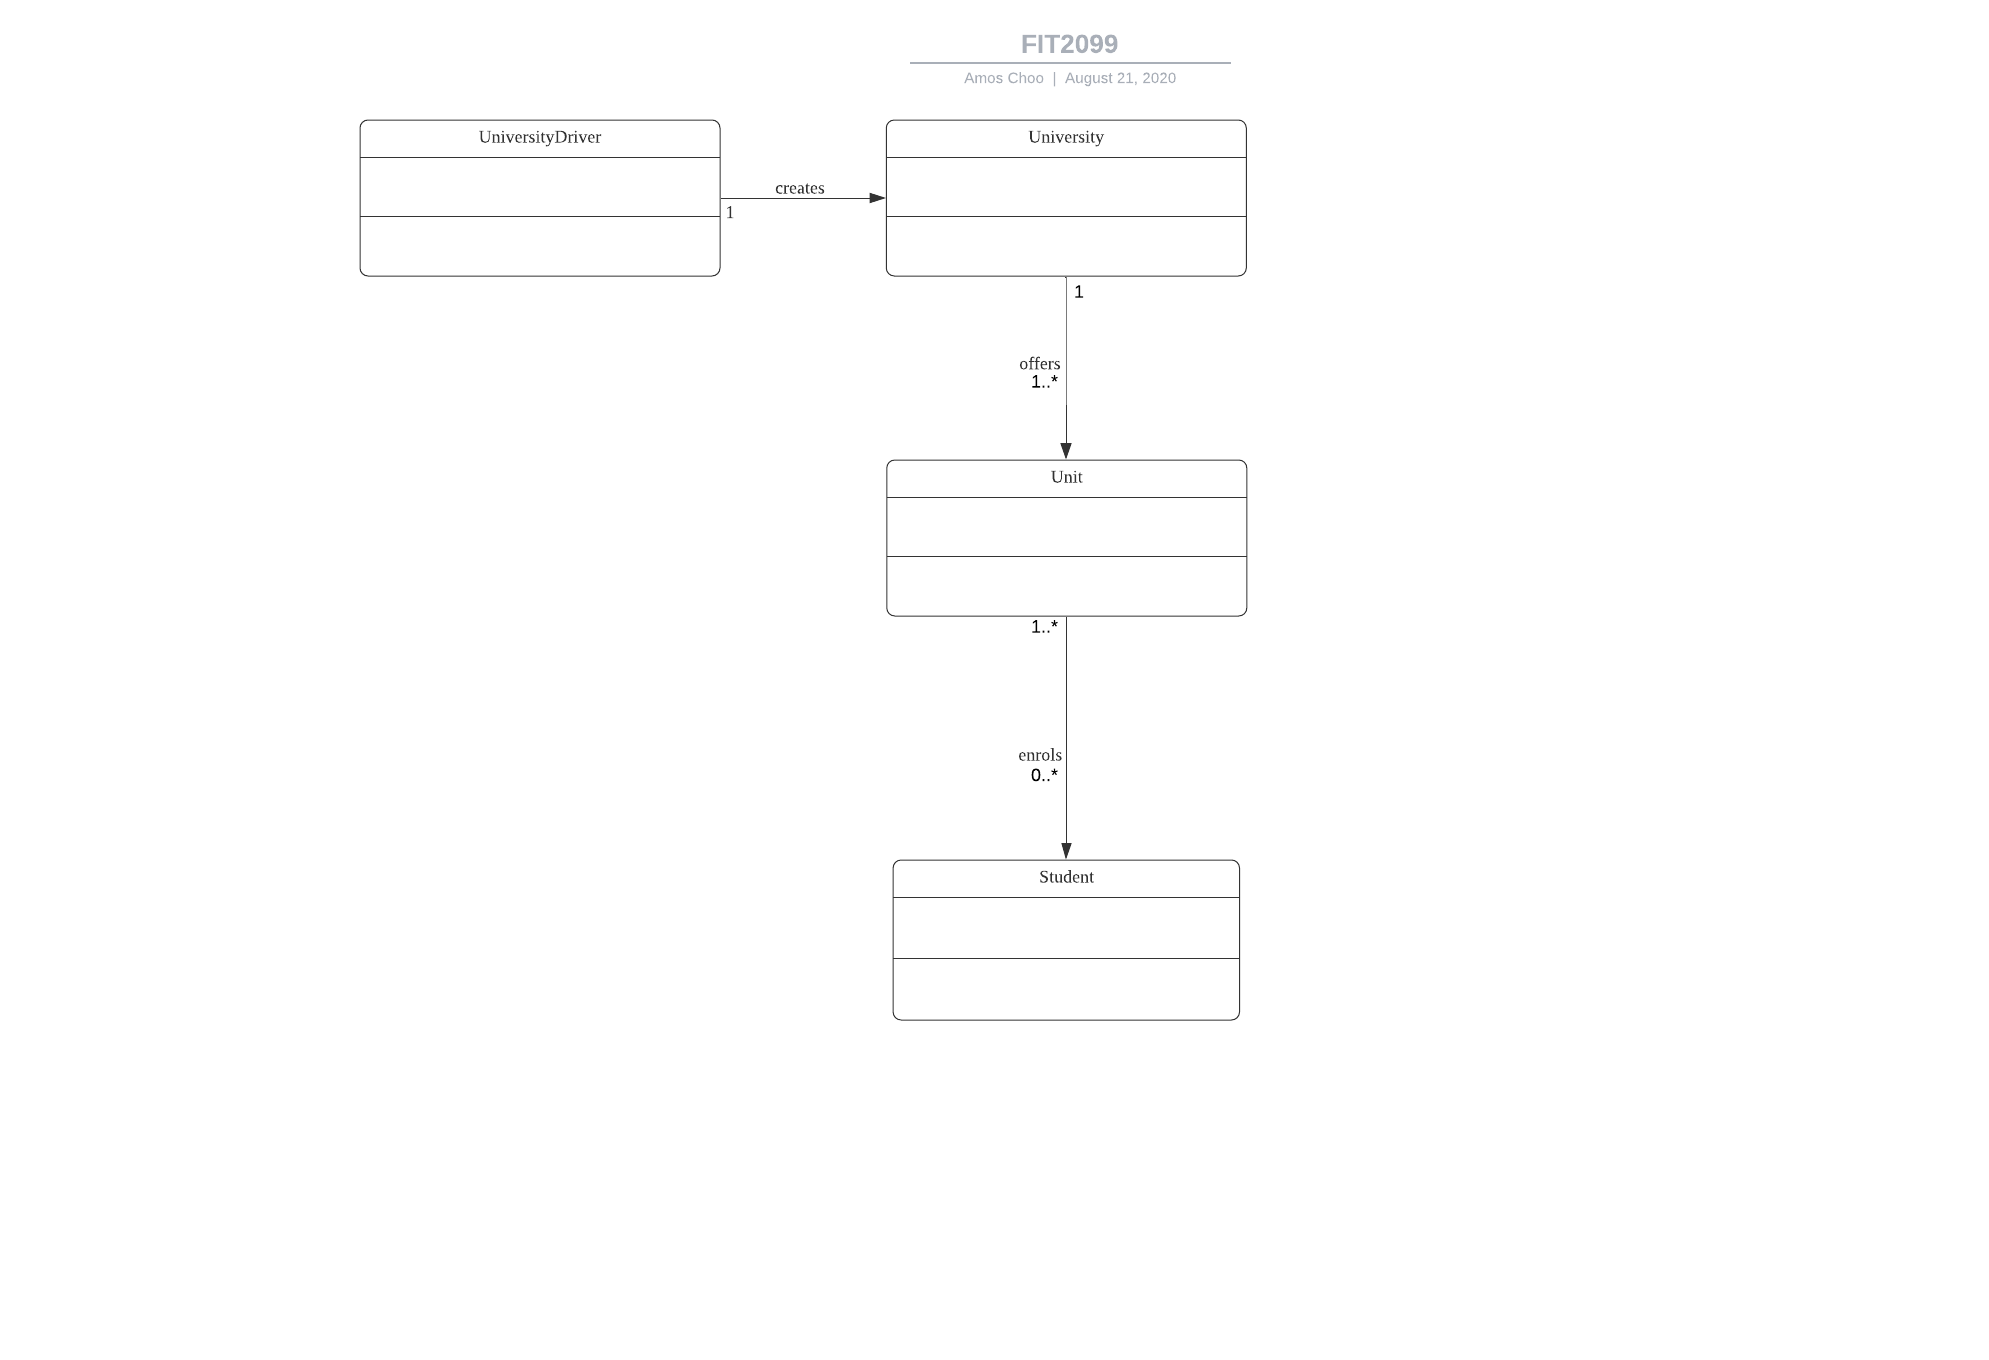
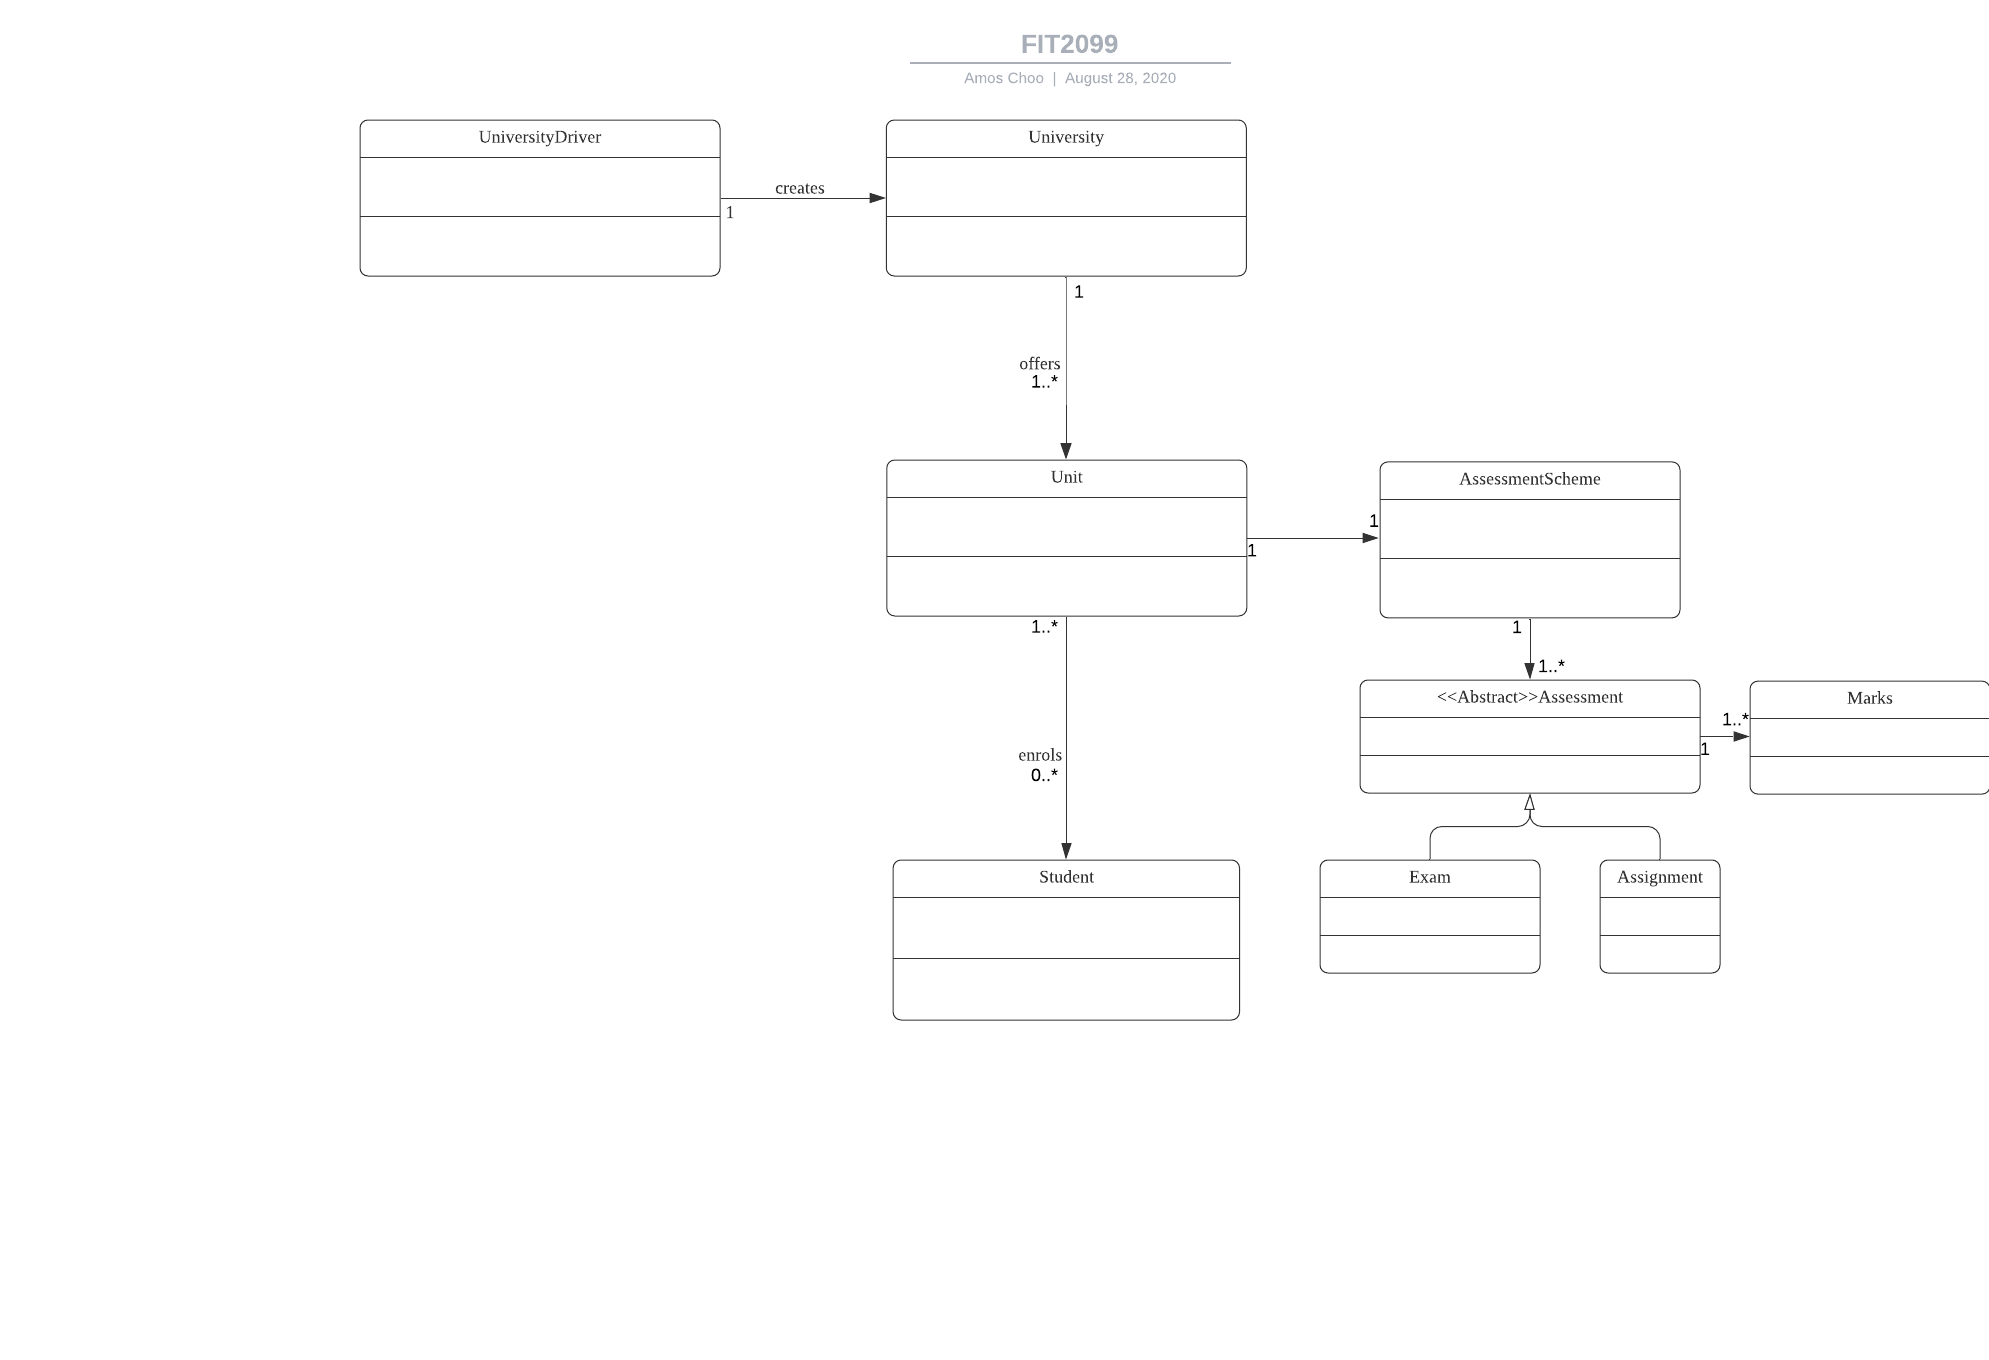
WEEK 4 CODE COMPLETED AND VERIFIED.
Added 4 new classes, Assessment,AssessmentScheme,Assignment,Exam.

Added WEEK 4 design for Challenge 2.

Updated codes accordingly

diff --git a/src/University.java b/src/University.java
@@ -1,9 +1,11 @@
 import java.util.ArrayList;
+import java.util.HashMap;
 import java.util.Scanner;
 
 public class University {
 
   private ArrayList<Unit> units;
+  private HashMap<String, Student> students = new HashMap<>();
 
   University() {
     createUnits();
@@ -18,25 +20,16 @@ public class University {
 
   public void createUnits() {
     units = new ArrayList<>();
-    //    Student studentA = new Student("12345678", "Victor", "Chang");
-    //    Student studentB = new Student("12345679", "Fred", "Nurke");
-    //    Student studentC = new Student("12345680");
-    //    studentC.setFamilyName("Naidu");
-    //        studentC.setGivenName("Indira");
-    units.add(new Unit("FIT1234", "Advanced Bogosorts"));
-    units.add(new Unit("FIT2027", "Introduction to Spaghetti Coding"));
-    units.add(new Unit("FIT1234", "Enterprise Fizzbuzz"));
-    units.add(new Unit("FIT2099", "Object Orientated Programming"));
-    //    units.get(0).enrolStudent(studentA);
-    //    units.get(0).enrolStudent(studentB);
-    //    units.get(2).enrolStudent(studentC);
-    //    units.get(1).enrolStudent(studentC);
+    Exam exam = new Exam(40, 190);
+    AssessmentScheme assessmentScheme = new AssessmentScheme();
+    assessmentScheme.getAssessments().add(exam);
+    for (int i = 0; i < 3; i++) {
+      assessmentScheme.getAssessments().add(new Assignment(i + 7, "Assignment " + i));
+    }
+    units.add(new Unit("FIT1234", "Advanced Bogosorts", assessmentScheme));
+    units.add(new Unit("FIT2027", "Introduction to Spaghetti Coding", assessmentScheme));
+    units.add(new Unit("FIT1234", "Enterprise Fizzbuzz", assessmentScheme));
 
-    /*Commented codes is hardcoded students object
-    Below codes loop 3 times and ask for user input for
-    given names, family names and student id. Unit enrolled by the newly
-    created object is fixed according to loop iteration number inside the arraylist
-    of units. Maybe in the future, user can set which units they want to enrol*/
     Scanner sc = new Scanner(System.in);
     for (int i = 0; i < 3; i++) {
       Student newStudent;
@@ -47,7 +40,7 @@ public class University {
       familyName = sc.nextLine();
       System.out.println("Please enter your student ID: ");
       id = sc.nextLine();
-      new Student(givenName, familyName, id);
+      admitStudent(new Student(givenName, familyName, id));
       units.get(i).enrolStudent(new Student(givenName, familyName, id));
     }
     sc.close();
@@ -59,7 +52,20 @@ public class University {
       for (Student student : u.getEnrolledStudentList()) {
         System.out.println(student.description());
       }
+      System.out.println("Assessments in the unit: " + u.AssessmentSchemeDescription());
       System.out.println("\n");
     }
+  }
+
+  public void admitStudent(Student student) {
+    students.put(student.getStudentId(), student);
+  }
+
+  public HashMap<String, Student> getStudents() {
+    return new HashMap<>(students);
+  }
+
+  public ArrayList<Unit> getUnits() {
+    return new ArrayList<>(units);
   }
 }

diff --git a/src/Unit.java b/src/Unit.java
@@ -1,13 +1,17 @@
-import java.util.ArrayList;
+import java.util.HashSet;
+import java.util.Iterator;
 
 public class Unit {
   private String unitCode;
   private String name;
-  private ArrayList<Student> students = new ArrayList<>();
+  private HashSet<String> enrolledStudents = new HashSet<>();
+  private AssessmentScheme assessmentScheme;
+  private University university;
 
-  Unit(String unitCode, String name) {
+  Unit(String unitCode, String name, AssessmentScheme assessmentScheme) {
     this.name = name;
     this.unitCode = unitCode;
+    this.assessmentScheme = assessmentScheme;
   }
 
   public String description() {
@@ -15,11 +19,36 @@ public class Unit {
   }
 
   public void enrolStudent(Student newStudent) {
-    students.add(newStudent);
+    enrolledStudents.add(newStudent.getStudentId());
   }
 
-  public ArrayList<Student> getEnrolledStudentList() {
+  public Student[] getEnrolledStudentList() {
+    Student[] studentList = new Student[enrolledStudents.size()];
+    int i = 0;
+    for (Iterator<String> iterator = enrolledStudents.iterator(); iterator.hasNext(); ) {
+      String id = iterator.next();
+      if (university.getStudents().containsKey(id)) {
+        studentList[i] = university.getStudents().get(id);
+        i += 1;
+      }
+    }
+    return studentList;
+  }
 
-    return new ArrayList<Student>(students);
+  public void setAssessmentScheme(AssessmentScheme assessmentScheme) {
+    this.assessmentScheme = assessmentScheme;
+  }
+
+  public void setUniversity(University university) {
+    this.university = university;
+  }
+
+  public String AssessmentSchemeDescription() {
+    String assessments = "";
+    ;
+    for (Assessment a : assessmentScheme.getAssessments()) {
+      assessments += a.description() + "\n";
+    }
+    return assessments;
   }
 }

diff --git a/src/Exam.java b/src/Exam.java
@@ -1,0 +1,13 @@
+public class Exam extends Assessment {
+  private int duration;
+
+  Exam(int weight, int duration) {
+    this.duration = duration;
+    super.setWeight(weight);
+  }
+
+  @Override
+  public String description() {
+    return "Exam: duration " + duration + "minutes, weight " + getWeight() + "%";
+  }
+}

diff --git a/src/Assignment.java b/src/Assignment.java
@@ -1,0 +1,13 @@
+public class Assignment extends Assessment {
+  private String title;
+
+  Assignment(int weight, String title) {
+    this.title = title;
+    super.setWeight(weight);
+  }
+
+  @Override
+  public String description() {
+    return title + "," + getWeight() + "%";
+  }
+}

diff --git a/src/Student.java b/src/Student.java
@@ -21,6 +21,10 @@ public class Student {
     this.familyName = familyName;
   }
 
+  public String getStudentId(){
+    return new Student(studentId).studentId;
+  }
+
   public String description() {
     return studentId + " " + givenName + " " + familyName;
   }

diff --git a/src/Assessment.java b/src/Assessment.java
@@ -1,0 +1,13 @@
+public abstract class Assessment {
+  private int weight;
+
+  public void setWeight(int weight) {
+    this.weight = weight;
+  }
+
+  public int getWeight() {
+    return weight;
+  }
+
+  public abstract String description();
+}

diff --git a/src/UniversityDriver.java b/src/UniversityDriver.java
@@ -1,6 +1,9 @@
 public class UniversityDriver {
   public static void main(String[] args) {
     University Monash = new University();
+    for (Unit u : Monash.getUnits()) {
+      u.setUniversity(Monash);
+    }
     Monash.printStatus();
   }
 }

diff --git a/src/AssessmentScheme.java b/src/AssessmentScheme.java
@@ -1,0 +1,9 @@
+import java.util.ArrayList;
+
+public class AssessmentScheme {
+  private ArrayList<Assessment> assessments = new ArrayList<>();
+
+  public ArrayList<Assessment> getAssessments() {
+    return assessments;
+  }
+}

diff --git a/WEEK4DESIGN.md b/WEEK4DESIGN.md
@@ -1,0 +1,106 @@
+#**Designing a Mark class**
+
+**Attributes of a Mark class:**
+
+totalMarks:double
+
+comments: String
+
+------------------------------------------------------------------------
+
+totalMarks is the total marks the student achieved for that particular assessment
+
+comments is a comments added by the marker
+
+-----------------------------------------------------------------------
+
+**Methods of a Mark class should have:**
+
+setComments: There is one parameter to this method, which will be a string
+and the attribute comments will be set what this parameter is. Return void.
+
+getComments: This method is to return the attribute comments. No parameters needed.
+
+
+description: This method returns a description of total marks the student achieved along
+with the comments. This method takes no parameters. A concatenated string of total mark attribute and
+comments is returned.
+
+setTotalMarks: There is one parameter to this method which is a double numerical value. This method
+sets the total mark to the parameter if and only if the total mark passes the validation check
+which is more than zero and less than 100. Else it will raise an exception.
+There is no return value for this method.
+
+getTotalMarks: This method returns the totalMarks attribute. No parameters needed. Returns a type double.
+
+______________________________________________________________________________
+
+#**Modifying Unit Class**
+
+A new method isEnrolled that takes in a String parameter student ID and returns a boolean whether a student is enrolled 
+by transversing through the Arraylist returned by getEnrolledStudentList.
+
+A new method completedAllAssessments that takes in a String parameter and returns a boolean if students completed all
+assessments in assessments scheme.
+
+A new method needs to be created, we will name it getStudentTotalMarks which returns a double.
+
+In this method, a String parameter of studentID is needed. It will first then check
+for whether the student is enrolled in that unit, else it will raise an exception.
+If the student is enrolled in that unit,it will then check for the whether students have
+completed all assessments for that unit, if the student has completed, then only
+it will return the total marks of that unit.
+
+Algorithm:
+
+               if student isEnrolled and completedAllAssessements
+                   return calculateStudentTotalMarks
+                
+
+
+Then, setStudentMark method needs to be created.
+
+We will make a method setStudentMark and the method has three parameters, one is String studentID, a Mark object and another is
+Assessment object. It will check the assessment object is in the assessment scheme of that unit and whether that student
+is enrolled. If he is, then, we called the method of assessment to add student marks by passing in studentID and Mark 
+object to it. No return value is needed.
+
+Algorithm:
+
+                  if assessment in AssessmentScheme and student isEnrolled:
+                             assessment.addStudentMarks
+
+We will make further modifications to Unit class to calculate the total marks of the student.
+To do that we will add a new method called calculateStudentTotalMarks. It takes in a String parameter studentID, 
+and in a loop, we loop through assessment scheme and for each assessment in that object, it gets the mark of the student
+in assessment and it sums them up and return it.
+ 
+
+Overall modifications to the Unit class:
+
+a) Adding getStudentTotalMarks, setStudentMark,calculateStudentTotalMarks method, isEnrolled,completedAllAssesments
+
+--------------------------------------------------------------------------------------------------------------------
+
+#**Modifying Assessment class**
+
+Add attribute studentMarks of type hashMap
+
+Create method called addStudentMarks which takes in a parameter of studentID and a Mark object.
+Inside the method, we add the key-value pair to the hashMap. No return value needed
+
+Add another method called getStudentMarks which takes in a parameter of studentID.
+Given the parameter which is the key to the hashMap, it will get the value and return mark
+obJect.
+
+
+
+Overall modifications of Assessment class:
+
+1) Adding attribute studentMarks of type hashMap
+2) Adding two methods, getStudentMarks, addStudentMarks
+
+
+
+
+

diff --git a/README.md b/README.md
@@ -5,3 +5,8 @@ A place to store Bootcamp files for FIT2099-S1-2020.
 Bootcamp Week 2 Project Status:PUSHED and COMPLETED
 
 Bootcamp Week 3: PUSHED and COMPLETED
+
+Bootcamp Week 4: PUSHED and COMPLETED
+
+
+WEEK 4 Design Challenge 2: Can be found in WEEK4DESIGN.md
